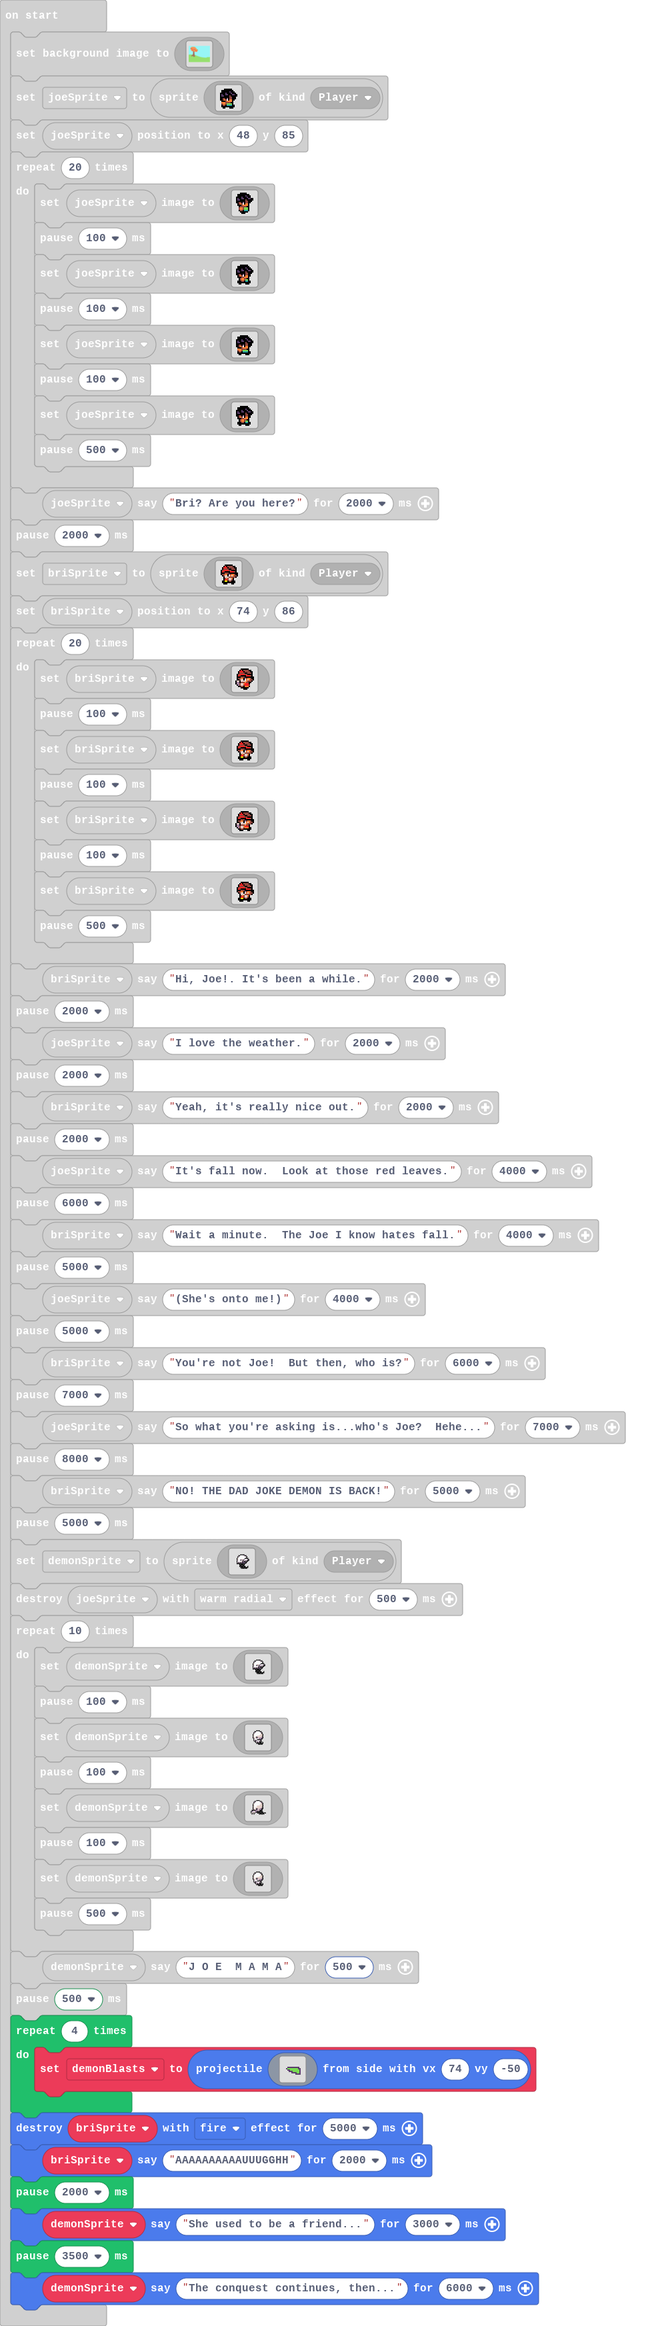
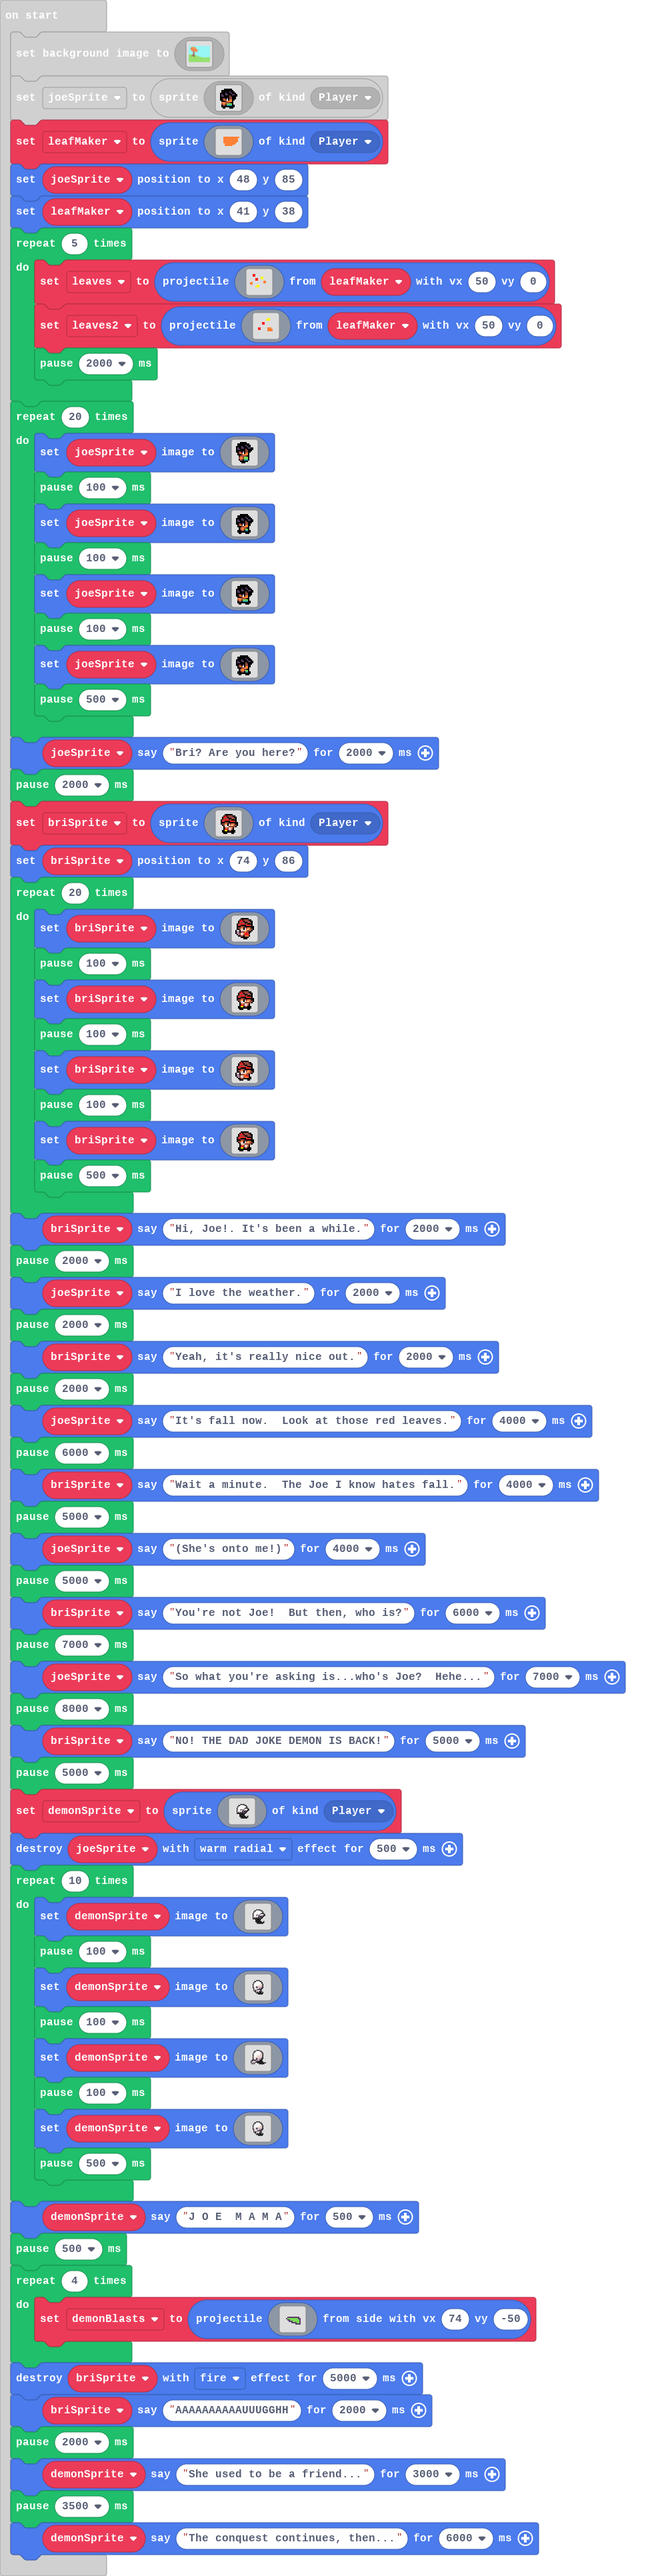
Update pxt.json, main.blocks, main.ts

diff --git a/main.ts b/main.ts
@@ -1,4 +1,6 @@
 let demonBlasts: Sprite = null
+let leaves2: Sprite = null
+let leaves: Sprite = null
 scene.setBackgroundImage(img`
     9999999999999999999999999999999999999999999999999999999999999999999999999999999999999999999999999999999999999999999999999999999999999999999999999999999999999999
     9999999999999999999999999999999999999999999999999999999999999999999999999999999999999999999999999999999999999999999999999999999999999999999999999999999999999999
@@ -139,7 +141,65 @@ let joeSprite = sprites.create(img`
     . f f f f f f f f f f . . 
     . . f f . . . f f f . . . 
     `, SpriteKind.Player)
+let leafMaker = sprites.create(img`
+    . . . . . . . . . . . . . . . . 
+    . . . . . . . . . . . . . . . . 
+    . . . . . . . . . . . . . . . . 
+    . . . . . . . . . . . . . . . . 
+    . . . . 4 4 4 4 4 4 4 4 4 4 4 4 
+    . . . . 4 4 4 4 4 4 4 4 4 4 4 . 
+    . . . . 4 4 4 4 4 4 4 4 4 4 4 . 
+    . . . . 4 4 4 4 4 4 4 4 4 4 4 . 
+    . . . . 4 4 4 4 4 4 4 4 4 4 . . 
+    . . . . . 4 4 4 4 4 4 4 4 . . . 
+    . . . . . 4 4 4 4 4 4 . . . . . 
+    . . . . . . . . . . . . . . . . 
+    . . . . . . . . . . . . . . . . 
+    . . . . . . . . . . . . . . . . 
+    . . . . . . . . . . . . . . . . 
+    . . . . . . . . . . . . . . . . 
+    `, SpriteKind.Player)
 joeSprite.setPosition(48, 85)
+leafMaker.setPosition(41, 38)
+for (let index = 0; index < 5; index++) {
+    leaves = sprites.createProjectileFromSprite(img`
+        . . . . . . . . . . . . . . . . 
+        . . . . . . . . . . . . . . . . 
+        . . . 2 2 . . . . . . . . . . . 
+        . . . 2 2 . . . . . . . . . . . 
+        . . . . . . . . . 5 5 . . . . . 
+        . . . . . 2 2 . . 5 5 . . . . . 
+        . . . . . 2 2 . . . . . . . . . 
+        . . . . . . . . . . . 4 4 . . . 
+        . 4 4 . . . . . . . . 4 4 . . . 
+        . 4 4 . . . . . . . . . . . . . 
+        . . . . . . 5 5 . . . . . . . . 
+        . . . . . 5 5 5 . . . . . . . . 
+        . . . . . . . . . . . . . . . . 
+        . . . . . . . . . . . . . . . . 
+        . . . . . . . . . . . . . . . . 
+        . . . . . . . . . . . . . . . . 
+        `, leafMaker, 50, 0)
+    leaves2 = sprites.createProjectileFromSprite(img`
+        . . . . . . . . . . . . . . . . 
+        . . . . . . . . . . . . . . . . 
+        . . . . . . . . . 5 5 . . . . . 
+        . . . . . . . . 5 5 5 . . . . . 
+        . . . . . . . . . . . . . . . . 
+        . . . . . 2 2 . . . . . . . . . 
+        . . . . . 2 2 . . . . . . . . . 
+        . . . . . . . . . . . . . . . . 
+        . . . . . . . . . . . . . . . . 
+        . . 2 2 . . . . . 4 4 4 . . . . 
+        . . 2 2 . . . . . 4 4 4 4 . . . 
+        . . . . . . . . . 4 4 4 4 . . . 
+        . . . . . . . . . . . . . . . . 
+        . . . . . . . . . . . . . . . . 
+        . . . . . . . . . . . . . . . . 
+        . . . . . . . . . . . . . . . . 
+        `, leafMaker, 50, 0)
+    pause(2000)
+}
 for (let index = 0; index < 20; index++) {
     joeSprite.setImage(img`
         . . . f f f f f . . . . . 
